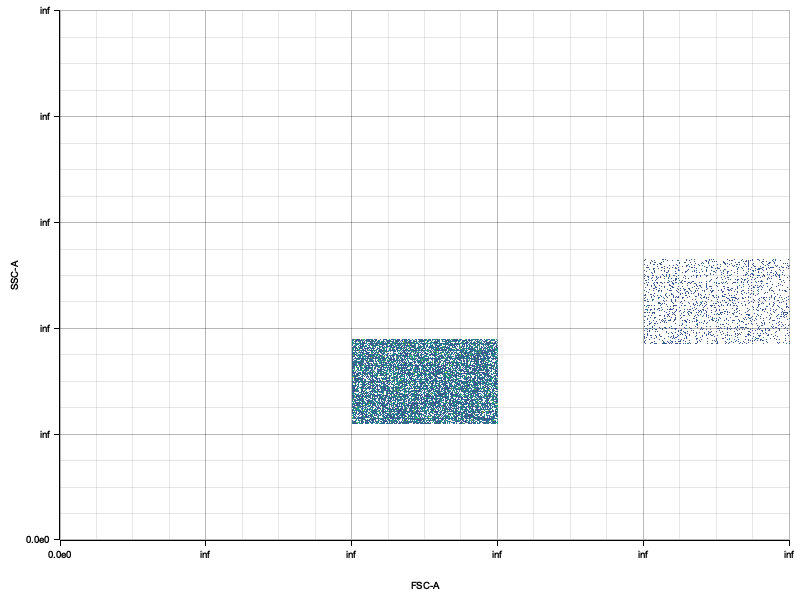
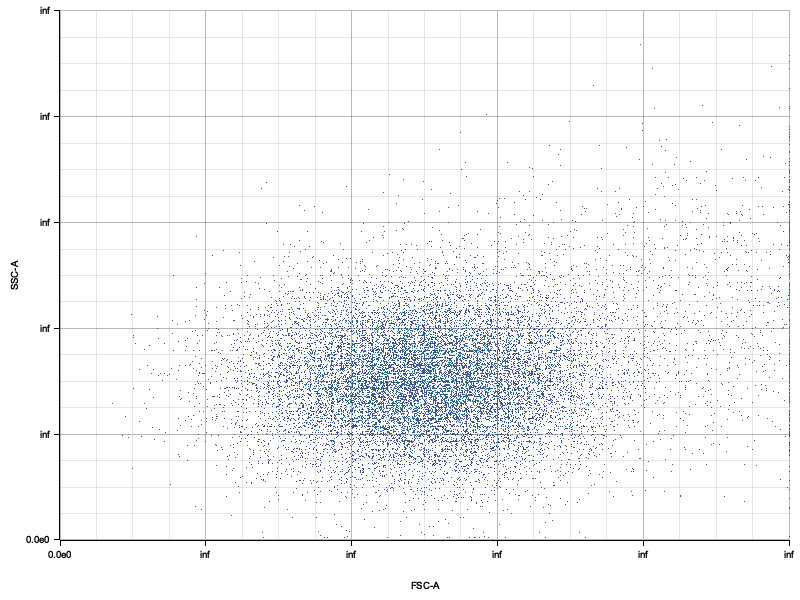
fix(gates): update example generation functions to use Gaussian distributions
- Replace uniform random (rng.gen_range) with Normal distributions in all functions
- Update generate_single_population, generate_multi_population, generate_with_doublets, generate_noisy_data
- Increase main population density for with_debris (10% debris, 90% main, 30k events)
- All scenarios now generate realistic Gaussian/Poisson-like distributions
- Fixes square/rectangular distribution issue in plots

Changed region(s): [[0.2812, 0.48, 0.7812, 0.81], [0.7812, 0.42, 1.0, 0.57]]

diff --git a/gates/examples/visualize_synthetic_data.rs b/gates/examples/visualize_synthetic_data.rs
@@ -71,11 +71,12 @@ mod test_helpers {
     }
 
     fn generate_single_population(n_events: usize) -> (Vec<f32>, Vec<f32>, Vec<f32>, Vec<f32>, Vec<f32>) {
-        use rand::Rng;
+        use rand_distr::{Distribution, Normal};
         let mut rng = rand::thread_rng();
-        let center_fsc: f32 = 50000.0;
-        let center_ssc: f32 = 30000.0;
-        let spread: f32 = 10000.0;
+        
+        // Use Gaussian distributions for realistic flow cytometry data
+        let fsc_dist = Normal::new(50000.0, 12000.0).unwrap();
+        let ssc_dist = Normal::new(30000.0, 9000.0).unwrap();
         
         let mut fsc_a = Vec::with_capacity(n_events);
         let mut fsc_h = Vec::with_capacity(n_events);
@@ -84,25 +85,40 @@ mod test_helpers {
         let mut ssc_h = Vec::with_capacity(n_events);
         
         for _ in 0..n_events {
-            let fsc_a_val = center_fsc + rng.gen_range(-spread..spread);
-            fsc_a.push(fsc_a_val.max(0.0));
-            fsc_h.push((fsc_a_val * 0.95 + rng.gen_range(-spread * 0.1..spread * 0.1)).max(0.0));
-            fsc_w.push((fsc_a_val * 0.3 + rng.gen_range(-spread * 0.05..spread * 0.05)).max(0.0));
-            let ssc_a_val = center_ssc + rng.gen_range(-spread * 0.8..spread * 0.8);
-            ssc_a.push(ssc_a_val.max(0.0));
-            ssc_h.push((ssc_a_val * 0.95 + rng.gen_range(-spread * 0.1..spread * 0.1)).max(0.0));
+            // Generate correlated FSC-A and FSC-H (height slightly less than area)
+            let fsc_a_val = (fsc_dist.sample(&mut rng) as f32).max(1000.0);
+            fsc_a.push(fsc_a_val);
+            
+            // FSC-H is correlated with FSC-A but slightly lower with some noise
+            let fsc_h_val = fsc_a_val * 0.92 + (Normal::new(0.0, fsc_a_val as f64 * 0.05).unwrap().sample(&mut rng) as f32);
+            fsc_h.push(fsc_h_val.max(0.0));
+            
+            // FSC-W is typically 30-40% of FSC-A
+            let fsc_w_val = fsc_a_val * 0.35 + (Normal::new(0.0, fsc_a_val as f64 * 0.03).unwrap().sample(&mut rng) as f32);
+            fsc_w.push(fsc_w_val.max(0.0));
+            
+            // SSC-A is correlated but independent
+            let ssc_a_val = (ssc_dist.sample(&mut rng) as f32).max(500.0);
+            ssc_a.push(ssc_a_val);
+            
+            // SSC-H is correlated with SSC-A
+            let ssc_h_val = ssc_a_val * 0.94 + (Normal::new(0.0, ssc_a_val as f64 * 0.05).unwrap().sample(&mut rng) as f32);
+            ssc_h.push(ssc_h_val.max(0.0));
         }
+        
         (fsc_a, fsc_h, fsc_w, ssc_a, ssc_h)
     }
 
     fn generate_multi_population(n_events: usize) -> (Vec<f32>, Vec<f32>, Vec<f32>, Vec<f32>, Vec<f32>) {
-        use rand::Rng;
+        use rand_distr::{Distribution, Normal};
         let mut rng = rand::thread_rng();
-        let center1_fsc: f32 = 30000.0;
-        let center1_ssc: f32 = 20000.0;
-        let center2_fsc: f32 = 70000.0;
-        let center2_ssc: f32 = 50000.0;
-        let spread: f32 = 8000.0;
+        
+        // Two distinct populations with Gaussian distributions
+        let pop1_fsc_dist = Normal::new(30000.0, 8000.0).unwrap();
+        let pop1_ssc_dist = Normal::new(20000.0, 6000.0).unwrap();
+        let pop2_fsc_dist = Normal::new(70000.0, 10000.0).unwrap();
+        let pop2_ssc_dist = Normal::new(50000.0, 8000.0).unwrap();
+        
         let n_pop1 = n_events / 2;
         let n_pop2 = n_events - n_pop1;
         
@@ -112,33 +128,40 @@ mod test_helpers {
         let mut ssc_a = Vec::with_capacity(n_events);
         let mut ssc_h = Vec::with_capacity(n_events);
         
+        // Population 1: smaller cells
         for _ in 0..n_pop1 {
-            let fsc_a_val = center1_fsc + rng.gen_range(-spread..spread);
-            fsc_a.push(fsc_a_val.max(0.0));
-            fsc_h.push((fsc_a_val * 0.95 + rng.gen_range(-spread * 0.1..spread * 0.1)).max(0.0));
-            fsc_w.push((fsc_a_val * 0.3 + rng.gen_range(-spread * 0.05..spread * 0.05)).max(0.0));
-            let ssc_a_val = center1_ssc + rng.gen_range(-spread * 0.8..spread * 0.8);
-            ssc_a.push(ssc_a_val.max(0.0));
-            ssc_h.push((ssc_a_val * 0.95 + rng.gen_range(-spread * 0.1..spread * 0.1)).max(0.0));
+            let fsc_a_val = (pop1_fsc_dist.sample(&mut rng) as f32).max(1000.0);
+            fsc_a.push(fsc_a_val);
+            fsc_h.push((fsc_a_val * 0.92 + (Normal::new(0.0, fsc_a_val as f64 * 0.05).unwrap().sample(&mut rng) as f32)).max(0.0));
+            fsc_w.push((fsc_a_val * 0.35 + (Normal::new(0.0, fsc_a_val as f64 * 0.03).unwrap().sample(&mut rng) as f32)).max(0.0));
+            
+            let ssc_a_val = (pop1_ssc_dist.sample(&mut rng) as f32).max(500.0);
+            ssc_a.push(ssc_a_val);
+            ssc_h.push((ssc_a_val * 0.94 + (Normal::new(0.0, ssc_a_val as f64 * 0.05).unwrap().sample(&mut rng) as f32)).max(0.0));
         }
+        
+        // Population 2: larger cells
         for _ in 0..n_pop2 {
-            let fsc_a_val = center2_fsc + rng.gen_range(-spread..spread);
-            fsc_a.push(fsc_a_val.max(0.0));
-            fsc_h.push((fsc_a_val * 0.95 + rng.gen_range(-spread * 0.1..spread * 0.1)).max(0.0));
-            fsc_w.push((fsc_a_val * 0.3 + rng.gen_range(-spread * 0.05..spread * 0.05)).max(0.0));
-            let ssc_a_val = center2_ssc + rng.gen_range(-spread * 0.8..spread * 0.8);
-            ssc_a.push(ssc_a_val.max(0.0));
-            ssc_h.push((ssc_a_val * 0.95 + rng.gen_range(-spread * 0.1..spread * 0.1)).max(0.0));
+            let fsc_a_val = (pop2_fsc_dist.sample(&mut rng) as f32).max(1000.0);
+            fsc_a.push(fsc_a_val);
+            fsc_h.push((fsc_a_val * 0.92 + (Normal::new(0.0, fsc_a_val as f64 * 0.05).unwrap().sample(&mut rng) as f32)).max(0.0));
+            fsc_w.push((fsc_a_val * 0.35 + (Normal::new(0.0, fsc_a_val as f64 * 0.03).unwrap().sample(&mut rng) as f32)).max(0.0));
+            
+            let ssc_a_val = (pop2_ssc_dist.sample(&mut rng) as f32).max(500.0);
+            ssc_a.push(ssc_a_val);
+            ssc_h.push((ssc_a_val * 0.94 + (Normal::new(0.0, ssc_a_val as f64 * 0.05).unwrap().sample(&mut rng) as f32)).max(0.0));
         }
+        
         (fsc_a, fsc_h, fsc_w, ssc_a, ssc_h)
     }
 
     fn generate_with_doublets(n_events: usize) -> (Vec<f32>, Vec<f32>, Vec<f32>, Vec<f32>, Vec<f32>) {
-        use rand::Rng;
+        use rand_distr::{Distribution, Normal};
         let mut rng = rand::thread_rng();
-        let center_fsc: f32 = 50000.0;
-        let center_ssc: f32 = 30000.0;
-        let spread: f32 = 10000.0;
+        
+        let singlet_fsc_dist = Normal::new(50000.0, 12000.0).unwrap();
+        let singlet_ssc_dist = Normal::new(30000.0, 9000.0).unwrap();
+        
         let n_doublets = n_events / 10;
         let n_singlets = n_events - n_doublets;
         
@@ -148,33 +171,41 @@ mod test_helpers {
         let mut ssc_a = Vec::with_capacity(n_events);
         let mut ssc_h = Vec::with_capacity(n_events);
         
+        // Singlets: normal distribution
         for _ in 0..n_singlets {
-            let fsc_a_val = center_fsc + rng.gen_range(-spread..spread);
-            fsc_a.push(fsc_a_val.max(0.0));
-            fsc_h.push((fsc_a_val * 0.95 + rng.gen_range(-spread * 0.1..spread * 0.1)).max(0.0));
-            fsc_w.push((fsc_a_val * 0.3 + rng.gen_range(-spread * 0.05..spread * 0.05)).max(0.0));
-            let ssc_a_val = center_ssc + rng.gen_range(-spread * 0.8..spread * 0.8);
-            ssc_a.push(ssc_a_val.max(0.0));
-            ssc_h.push((ssc_a_val * 0.95 + rng.gen_range(-spread * 0.1..spread * 0.1)).max(0.0));
+            let fsc_a_val = (singlet_fsc_dist.sample(&mut rng) as f32).max(1000.0);
+            fsc_a.push(fsc_a_val);
+            fsc_h.push((fsc_a_val * 0.92 + (Normal::new(0.0, fsc_a_val as f64 * 0.05).unwrap().sample(&mut rng) as f32)).max(0.0));
+            fsc_w.push((fsc_a_val * 0.35 + (Normal::new(0.0, fsc_a_val as f64 * 0.03).unwrap().sample(&mut rng) as f32)).max(0.0));
+            
+            let ssc_a_val = (singlet_ssc_dist.sample(&mut rng) as f32).max(500.0);
+            ssc_a.push(ssc_a_val);
+            ssc_h.push((ssc_a_val * 0.94 + (Normal::new(0.0, ssc_a_val as f64 * 0.05).unwrap().sample(&mut rng) as f32)).max(0.0));
         }
+        
+        // Doublets: higher FSC-A, lower FSC-H/FSC-A ratio (wider)
         for _ in 0..n_doublets {
-            let fsc_a_val = center_fsc * 1.8 + rng.gen_range(-spread..spread);
-            fsc_a.push(fsc_a_val.max(0.0));
-            fsc_h.push((fsc_a_val * 0.6 + rng.gen_range(-spread * 0.1..spread * 0.1)).max(0.0));
-            fsc_w.push((fsc_a_val * 0.4 + rng.gen_range(-spread * 0.05..spread * 0.05)).max(0.0));
-            let ssc_a_val = center_ssc * 1.5 + rng.gen_range(-spread * 0.8..spread * 0.8);
-            ssc_a.push(ssc_a_val.max(0.0));
-            ssc_h.push((ssc_a_val * 0.95 + rng.gen_range(-spread * 0.1..spread * 0.1)).max(0.0));
+            let fsc_a_val = (singlet_fsc_dist.sample(&mut rng) as f32).max(1000.0) * 1.8;
+            fsc_a.push(fsc_a_val);
+            // Doublets have lower height/area ratio (wider cells)
+            fsc_h.push((fsc_a_val * 0.65 + (Normal::new(0.0, fsc_a_val as f64 * 0.08).unwrap().sample(&mut rng) as f32)).max(0.0));
+            fsc_w.push((fsc_a_val * 0.42 + (Normal::new(0.0, fsc_a_val as f64 * 0.05).unwrap().sample(&mut rng) as f32)).max(0.0));
+            
+            let ssc_a_val = (singlet_ssc_dist.sample(&mut rng) as f32).max(500.0) * 1.5;
+            ssc_a.push(ssc_a_val);
+            ssc_h.push((ssc_a_val * 0.94 + (Normal::new(0.0, ssc_a_val as f64 * 0.05).unwrap().sample(&mut rng) as f32)).max(0.0));
         }
+        
         (fsc_a, fsc_h, fsc_w, ssc_a, ssc_h)
     }
 
     fn generate_noisy_data(n_events: usize) -> (Vec<f32>, Vec<f32>, Vec<f32>, Vec<f32>, Vec<f32>) {
-        use rand::Rng;
+        use rand_distr::{Distribution, Normal};
         let mut rng = rand::thread_rng();
-        let center_fsc: f32 = 50000.0;
-        let center_ssc: f32 = 30000.0;
-        let spread: f32 = 20000.0;
+        
+        // Wider distributions for noisy data
+        let fsc_dist = Normal::new(50000.0, 25000.0).unwrap();
+        let ssc_dist = Normal::new(30000.0, 20000.0).unwrap();
         
         let mut fsc_a = Vec::with_capacity(n_events);
         let mut fsc_h = Vec::with_capacity(n_events);
@@ -183,14 +214,17 @@ mod test_helpers {
         let mut ssc_h = Vec::with_capacity(n_events);
         
         for _ in 0..n_events {
-            let fsc_a_val = center_fsc + rng.gen_range(-spread..spread);
-            fsc_a.push(fsc_a_val.max(0.0));
-            fsc_h.push((fsc_a_val * 0.9 + rng.gen_range(-spread * 0.2..spread * 0.2)).max(0.0));
-            fsc_w.push((fsc_a_val * 0.3 + rng.gen_range(-spread * 0.1..spread * 0.1)).max(0.0));
-            let ssc_a_val = center_ssc + rng.gen_range(-spread * 0.8..spread * 0.8);
-            ssc_a.push(ssc_a_val.max(0.0));
-            ssc_h.push((ssc_a_val * 0.9 + rng.gen_range(-spread * 0.2..spread * 0.2)).max(0.0));
+            let fsc_a_val = (fsc_dist.sample(&mut rng) as f32).max(1000.0);
+            fsc_a.push(fsc_a_val);
+            // Higher noise in correlations
+            fsc_h.push((fsc_a_val * 0.88 + (Normal::new(0.0, fsc_a_val as f64 * 0.12).unwrap().sample(&mut rng) as f32)).max(0.0));
+            fsc_w.push((fsc_a_val * 0.33 + (Normal::new(0.0, fsc_a_val as f64 * 0.08).unwrap().sample(&mut rng) as f32)).max(0.0));
+            
+            let ssc_a_val = (ssc_dist.sample(&mut rng) as f32).max(500.0);
+            ssc_a.push(ssc_a_val);
+            ssc_h.push((ssc_a_val * 0.90 + (Normal::new(0.0, ssc_a_val as f64 * 0.12).unwrap().sample(&mut rng) as f32)).max(0.0));
         }
+        
         (fsc_a, fsc_h, fsc_w, ssc_a, ssc_h)
     }
 
@@ -204,7 +238,8 @@ mod test_helpers {
         let debris_fsc_dist = Normal::new(2000.0, 1500.0).unwrap();
         let debris_ssc_dist = Normal::new(1500.0, 1000.0).unwrap();
         
-        let n_debris = (n_events as f64 * 0.15) as usize;
+        // 10% debris, 90% main population (increased main population density)
+        let n_debris = (n_events as f64 * 0.10) as usize;
         let n_main = n_events - n_debris;
         
         let mut fsc_a = Vec::with_capacity(n_events);
@@ -256,7 +291,13 @@ fn main() -> Result<(), Box<dyn std::error::Error>> {
         println!("Generating plot for: {}", name);
         
         // Create synthetic FCS file with higher event count for better visualization
-        let fcs = create_synthetic_fcs(20000, scenario)?;
+        // Use more events for with_debris to increase main population density
+        let n_events = if matches!(scenario, TestScenario::WithDebris) {
+            30000  // More events for with_debris main population
+        } else {
+            20000
+        };
+        let fcs = create_synthetic_fcs(n_events, scenario)?;
         
         // Extract FSC-A and SSC-A data
         let fsc_a = fcs.get_parameter_events_slice("FSC-A")?;
